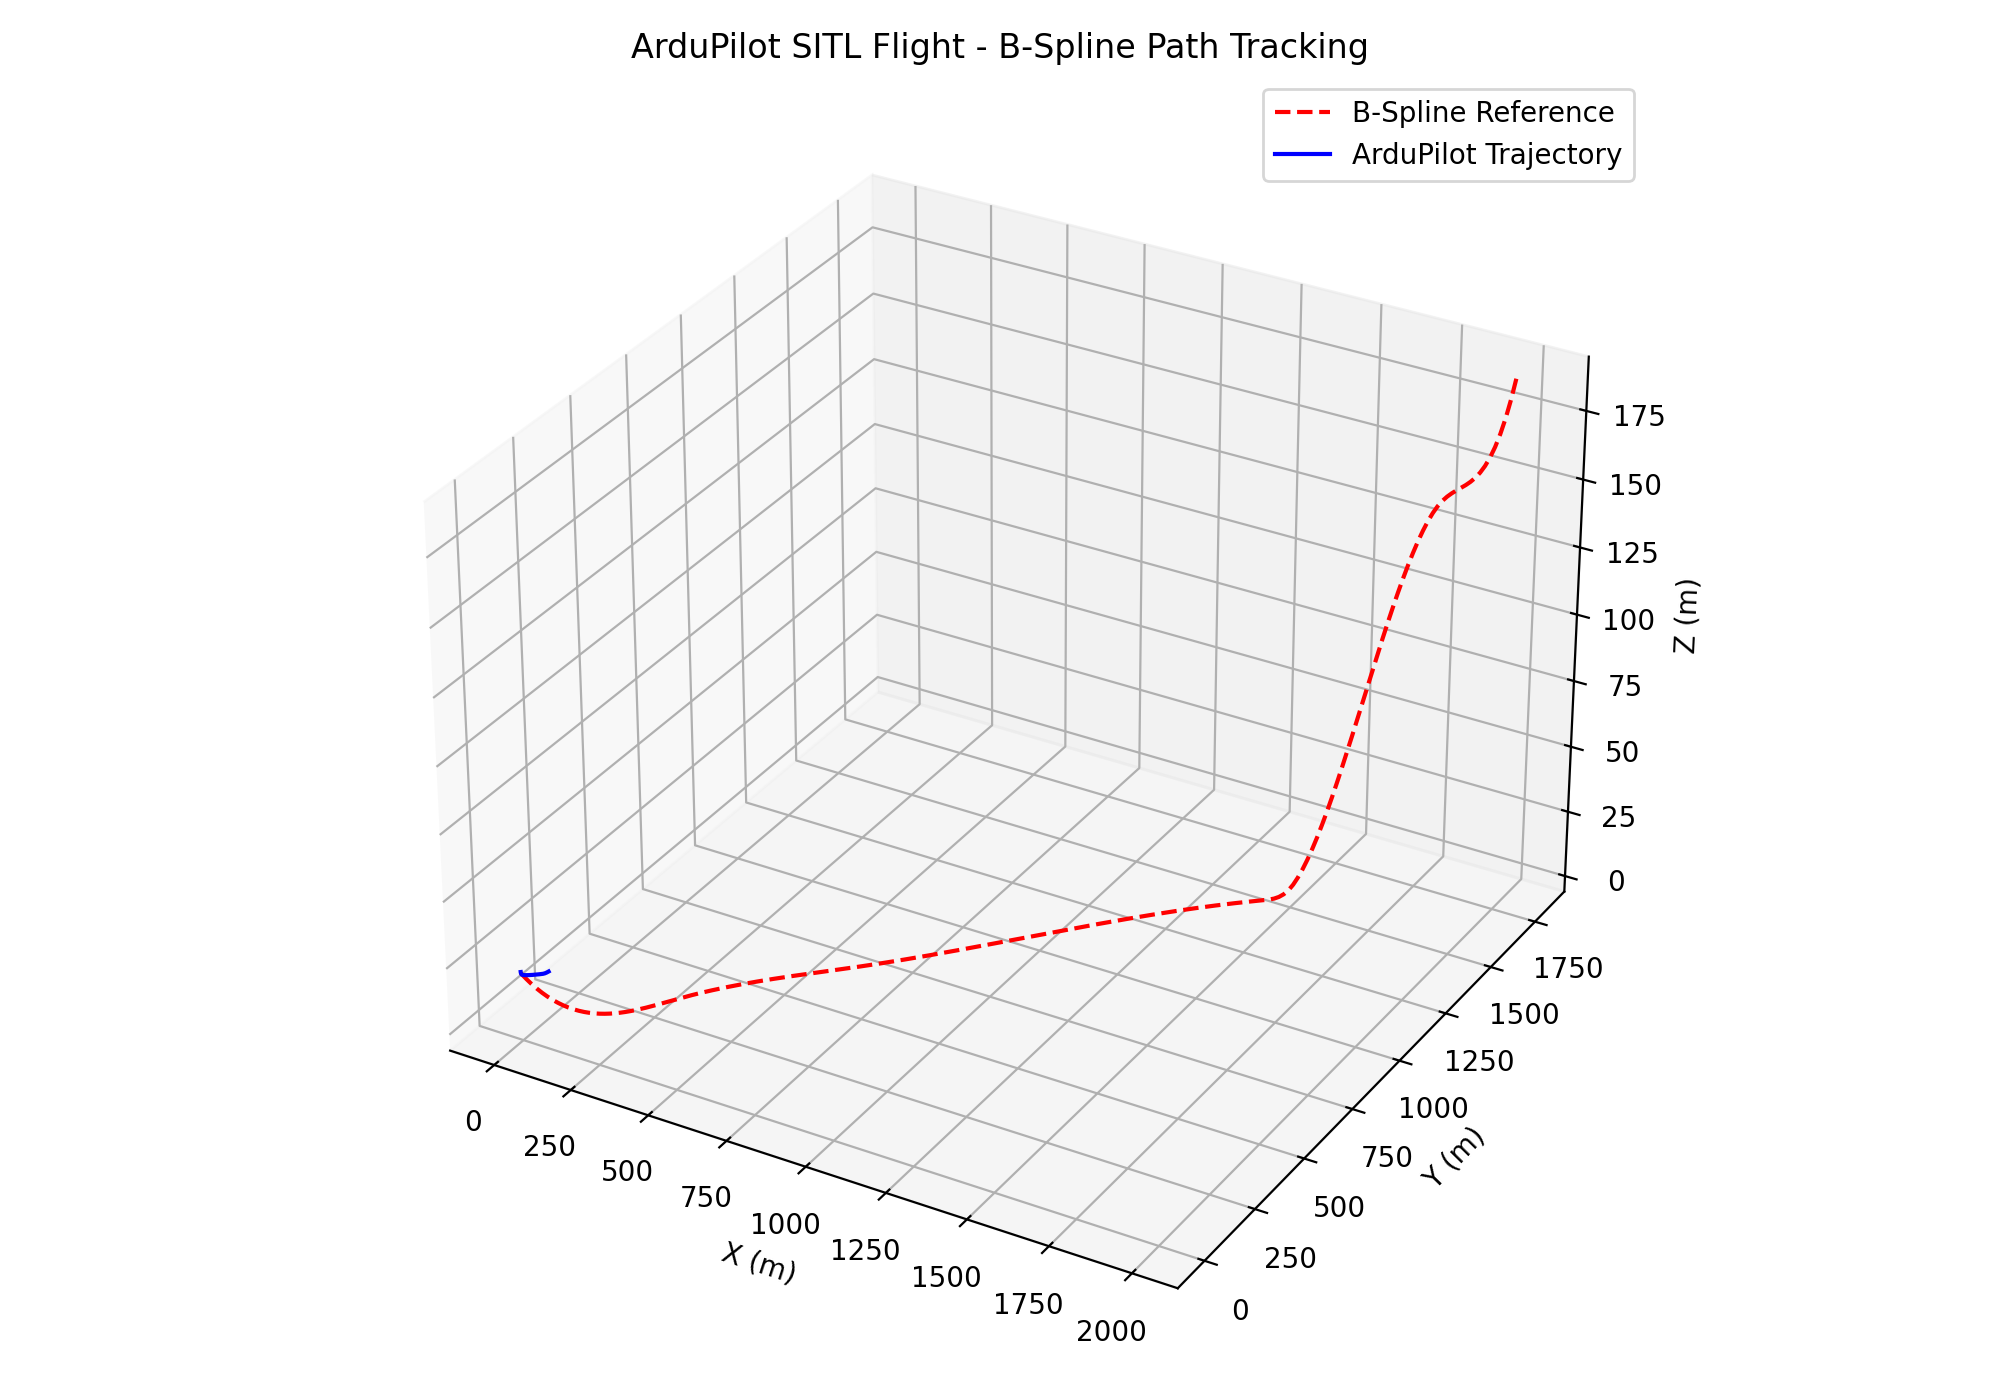
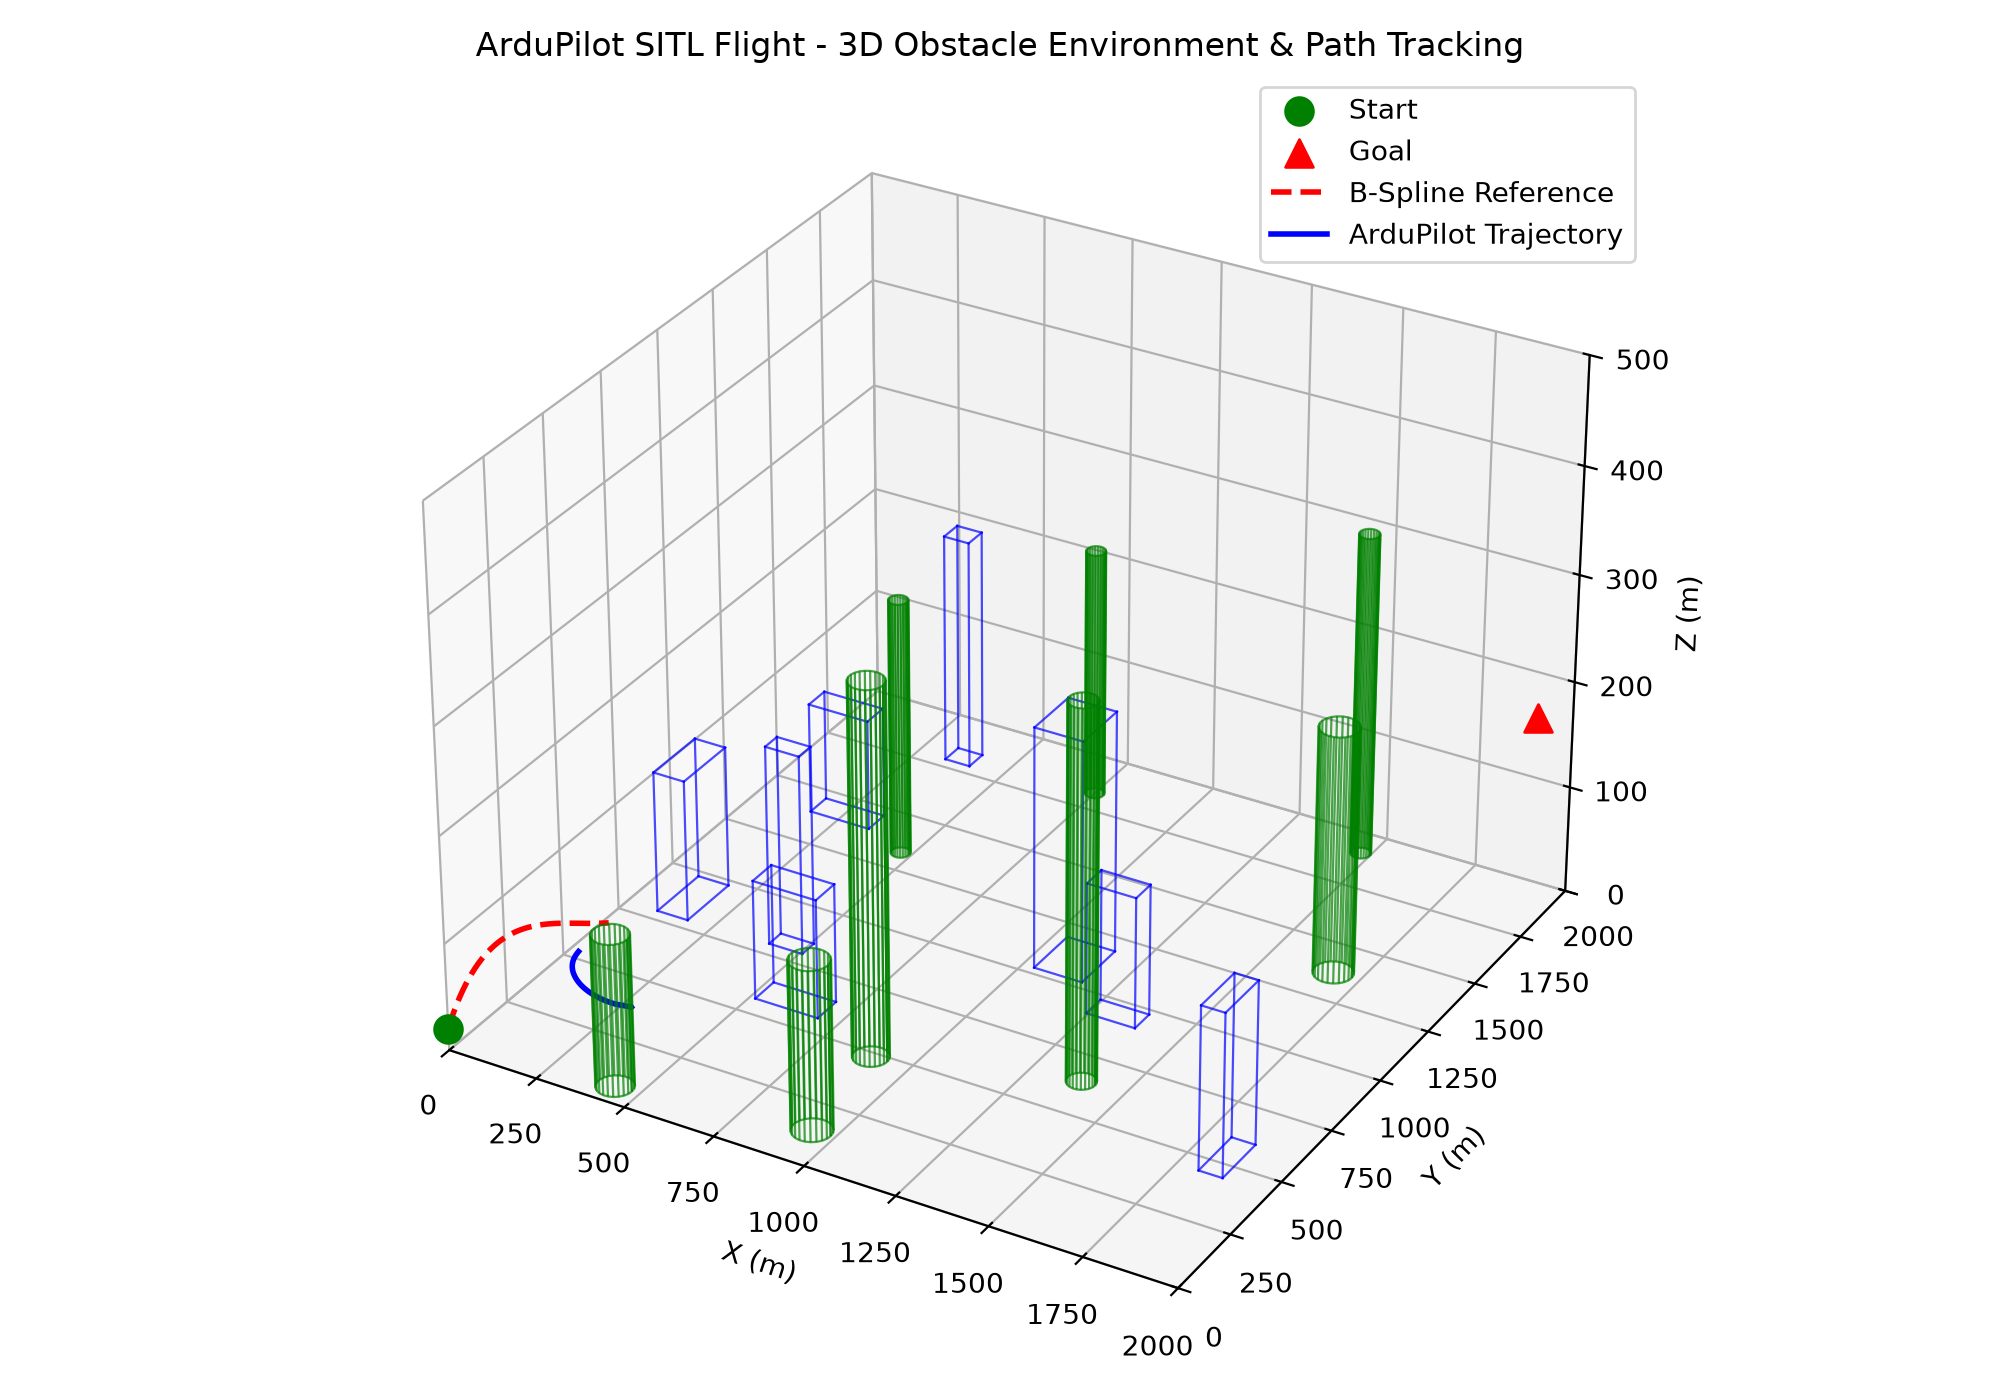
Fix sitl_bridge optional import and regenerate flight tracking plots

diff --git a/ardupilot/sitl_bridge.py b/ardupilot/sitl_bridge.py
@@ -344,8 +344,6 @@ class ArduPilotBridge:
         print("Saved plots to ardupilot/results/ directory.")
 
 
-from environment.real_osm_buildings import load_real_world_environment
-
 def main():
     parser = argparse.ArgumentParser(description="ArduPilot SITL MAVLink Companion Bridge")
     parser.add_argument("--connection", type=str, default="udpin:0.0.0.0:14550", help="MAVLink connection string")
@@ -359,6 +357,7 @@ def main():
 
     # Build obstacle environment & sample path
     if args.real_osm or args.street_route:
+        from environment.real_osm_buildings import load_real_world_environment  # optional, not in repo
         env = load_real_world_environment(ref_lat=37.7749, ref_lon=-122.4194)
     else:
         env = Environment3D()
